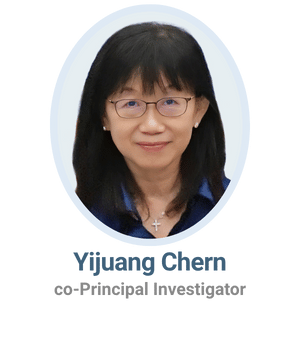
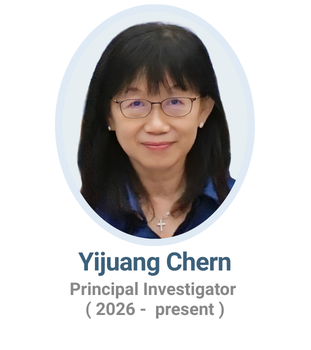
Update team profile and images

diff --git a/index.html b/index.html
@@ -165,13 +165,14 @@
                 </div>
                 <div class="leader-grid2">
                     <a href="https://www.ibms.sinica.edu.tw/Pui-Yan-Kwok/en/" target="_blank" class="image-link"><img src="images/as_leader_00.png" alt="Pui-Yan Kwok" loading="lazy"></a>
+					       <a href="https://www.ibms.sinica.edu.tw/yijuang-chern/en/" target="_blank" class="image-link"><img src="images/as_leader_03.png" alt="Yi-Juang Chern" loading="lazy"></a>
+                 
                                   <a href="https://www.ibms.sinica.edu.tw/yuan-tsong-chen/en" target="_blank" class="image-link"><img src="images/as_leader_05.png" alt="Yuan-Tsong Chen" loading="lazy"></a>
 					<a href="https://www.ibms.sinica.edu.tw/jer-yuarn-wu/en" target="_blank" class="image-link"><img src="images/as_leader_01.png" alt="Jer-Yuarn Wu" loading="lazy"></a>
                        <a href="https://www.nhri.edu.tw/eng/about/more?id=c2076ca28c574d86bc6838e4c8b85eb7" target="_blank" class="image-link"><img src="images/as_leader_04.png" alt="Wayne Huey-Herng Sheu" loading="lazy"></a>
       
 	  <a href="https://www.stat.sinica.edu.tw/eng/index.php?act=researcher_manager&code=view&member=5" target="_blank" class="image-link"><img src="images/as_leader_02.png" alt="Chun-Houh Chen" loading="lazy"></a>
-                    <a href="https://www.ibms.sinica.edu.tw/yijuang-chern/en/" target="_blank" class="image-link"><img src="images/as_leader_03.png" alt="Yi-Juang Chern" loading="lazy"></a>
-                 
+             
                    
                 </div>
             </div>
@@ -182,7 +183,6 @@
             <div class="carousel-container">
                 <button class="carousel-button left">&#10094;</button>
                 <div class="carousel-track">
-                    <div class="carousel-item"><a href="https://scholar.google.com/citations?hl=zh-TW&user=ZLE53hgAAAAJ&view_op=list_works&sortby=pubdate" target="_blank" class="image-link"><img src="images/as_leader_08.png" alt="YI-MIN LIU"></a></div>
                     <div class="carousel-item"><a href="https://www.ibms.sinica.edu.tw/ling-hui-li/en" target="_blank" class="image-link"><img src="images/as_leader_09.png" alt="Ling-Hui Li"></a></div>
                     <div class="carousel-item"><a href="https://www.ibms.sinica.edu.tw/hung-hsin-chen/en" target="_blank" class="image-link"><img src="images/as_leader_10.png" alt="Hung-Hsin Chen"></a></div>
                     <div class="carousel-item"><a href="https://www.ibms.sinica.edu.tw/chien-hsiun-chen/en/" target="_blank" class="image-link"><img src="images/as_leader_11.png" alt="Chien-Hsiun Chen"></a></div>
